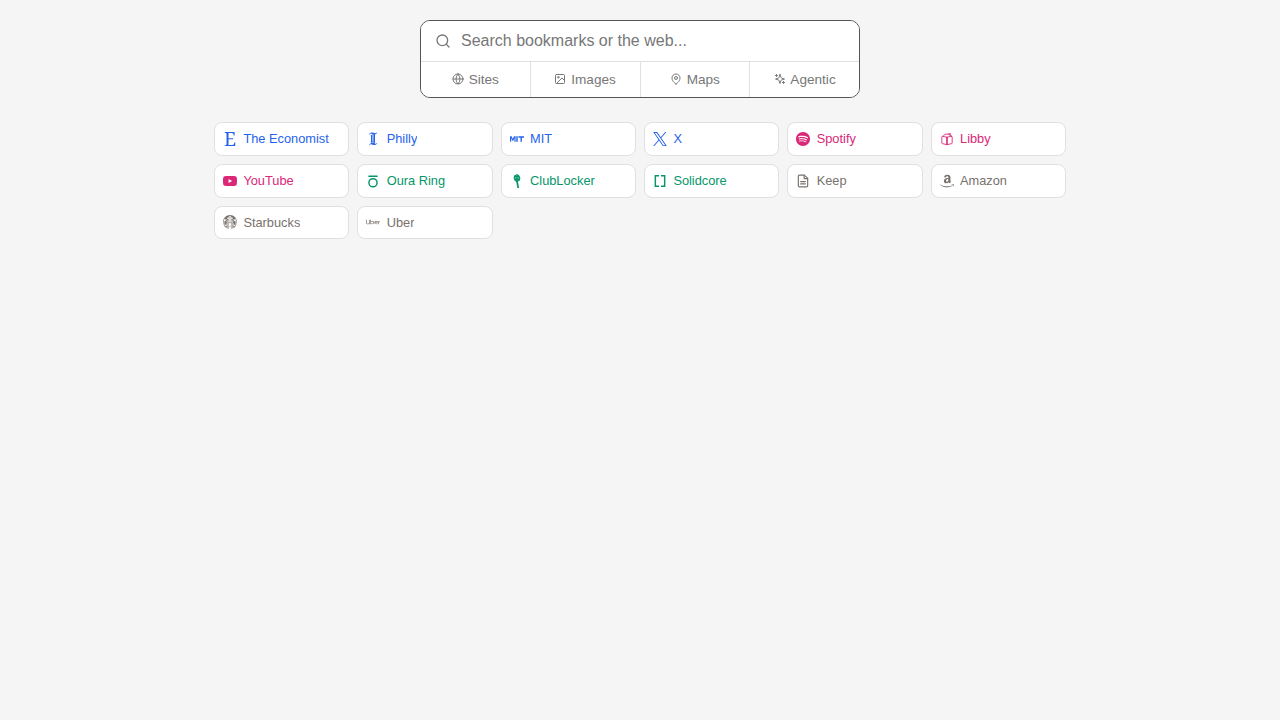
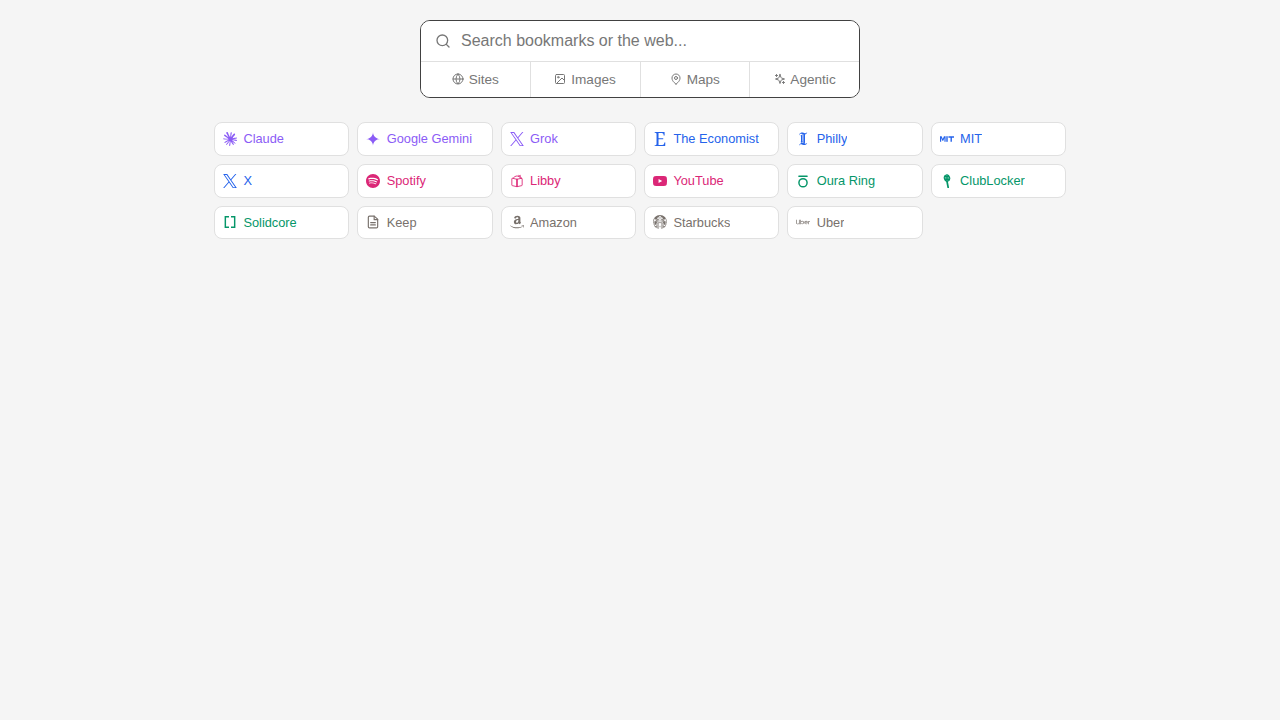
feat: Add AI category and bookmarks for Claude, Gemini, and Grok
- Added new `--cat-ai` CSS variables for styling.
- Included new `bookmark-item` elements for Claude, Google Gemini, and Grok with corresponding URLs and SVG icons (from simple-icons).
- Updated the `categoryOrder` and `customOrder` in JS to place the 'ai' category first.

diff --git a/bookmarks.html b/bookmarks.html
@@ -31,6 +31,7 @@
     --cat-health: #34d399;
     --cat-listen: #f472b6;
     --cat-shopping: #a8a29e;
+    --cat-ai: #a78bfa;
   }
 
   body {
@@ -245,6 +246,8 @@
   .bookmark-item[data-category="listen"] .ctx-icon { color: var(--cat-listen); }
   .bookmark-item[data-category="shopping"] > a.main-link { color: var(--cat-shopping); }
   .bookmark-item[data-category="shopping"] .ctx-icon { color: var(--cat-shopping); }
+  .bookmark-item[data-category="ai"] > a.main-link { color: var(--cat-ai); }
+  .bookmark-item[data-category="ai"] .ctx-icon { color: var(--cat-ai); }
 
 
 
@@ -311,6 +314,7 @@
       --cat-health: #059669;
       --cat-listen: #db2777;
       --cat-shopping: #78716c;
+      --cat-ai: #8b5cf6;
     }
   }
 </style>
@@ -344,6 +348,9 @@
 </header>
 
 <div class="grid" id="grid">
+<div class="bookmark-item" data-category="ai" data-ctx="personal"><a class="main-link" href="https://claude.ai/"><svg aria-hidden="true" class="ctx-icon" fill="currentColor" stroke="none" viewBox="0 0 24 24"><path d="m4.7144 15.9555 4.7174-2.6471.079-.2307-.079-.1275h-.2307l-.7893-.0486-2.6956-.0729-2.3375-.0971-2.2646-.1214-.5707-.1215-.5343-.7042.0546-.3522.4797-.3218.686.0608 1.5179.1032 2.2767.1578 1.6514.0972 2.4468.255h.3886l.0546-.1579-.1336-.0971-.1032-.0972L6.973 9.8356l-2.55-1.6879-1.3356-.9714-.7225-.4918-.3643-.4614-.1578-1.0078.6557-.7225.8803.0607.2246.0607.8925.686 1.9064 1.4754 2.4893 1.8336.3643.3035.1457-.1032.0182-.0728-.164-.2733-1.3539-2.4467-1.445-2.4893-.6435-1.032-.17-.6194c-.0607-.255-.1032-.4674-.1032-.7285L6.287.1335 6.6997 0l.9957.1336.419.3642.6192 1.4147 1.0018 2.2282 1.5543 3.0296.4553.8985.2429.8318.091.255h.1579v-.1457l.1275-1.706.2368-2.0947.2307-2.6957.0789-.7589.3764-.9107.7468-.4918.5828.2793.4797.686-.0668.4433-.2853 1.8517-.5586 2.9021-.3643 1.9429h.2125l.2429-.2429.9835-1.3053 1.6514-2.0643.7286-.8196.85-.9046.5464-.4311h1.0321l.759 1.1293-.34 1.1657-1.0625 1.3478-.8804 1.1414-1.2628 1.7-.7893 1.36.0729.1093.1882-.0183 2.8535-.607 1.5421-.2794 1.8396-.3157.8318.3886.091.3946-.3278.8075-1.967.4857-2.3072.4614-3.4364.8136-.0425.0304.0486.0607 1.5482.1457.6618.0364h1.621l3.0175.2247.7892.522.4736.6376-.079.4857-1.2142.6193-1.6393-.3886-3.825-.9107-1.3113-.3279h-.1822v.1093l1.0929 1.0686 2.0035 1.8092 2.5075 2.3314.1275.5768-.3218.4554-.34-.0486-2.2039-1.6575-.85-.7468-1.9246-1.621h-.1275v.17l.4432.6496 2.3436 3.5214.1214 1.0807-.17.3521-.6071.2125-.6679-.1214-1.3721-1.9246L14.38 17.959l-1.1414-1.9428-.1397.079-.674 7.2552-.3156.3703-.7286.2793-.6071-.4614-.3218-.7468.3218-1.4753.3886-1.9246.3157-1.53.2853-1.9004.17-.6314-.0121-.0425-.1397.0182-1.4328 1.9672-2.1796 2.9446-1.7243 1.8456-.4128.164-.7164-.3704.0667-.6618.4008-.5889 2.386-3.0357 1.4389-1.882.929-1.0868-.0062-.1579h-.0546l-6.3385 4.1164-1.1293.1457-.4857-.4554.0608-.7467.2307-.2429 1.9064-1.3114Z"/></svg><span class="name">Claude</span></a></div>
+<div class="bookmark-item" data-category="ai" data-ctx="personal"><a class="main-link" href="https://gemini.google.com/"><svg aria-hidden="true" class="ctx-icon" fill="currentColor" stroke="none" viewBox="0 0 24 24"><path d="M11.04 19.32Q12 21.51 12 24q0-2.49.93-4.68.96-2.19 2.58-3.81t3.81-2.55Q21.51 12 24 12q-2.49 0-4.68-.93a12.3 12.3 0 0 1-3.81-2.58 12.3 12.3 0 0 1-2.58-3.81Q12 2.49 12 0q0 2.49-.96 4.68-.93 2.19-2.55 3.81a12.3 12.3 0 0 1-3.81 2.58Q2.49 12 0 12q2.49 0 4.68.96 2.19.93 3.81 2.55t2.55 3.81"/></svg><span class="name">Google Gemini</span></a></div>
+<div class="bookmark-item" data-category="ai" data-ctx="personal"><a class="main-link" href="https://grok.com/"><svg aria-hidden="true" class="ctx-icon" fill="currentColor" stroke="none" viewBox="0 0 24 24"><path d="M14.234 10.162 22.977 0h-2.072l-7.591 8.824L7.251 0H.258l9.168 13.343L.258 24H2.33l8.016-9.318L16.749 24h6.993zm-2.837 3.299-.929-1.329L3.076 1.56h3.182l5.965 8.532.929 1.329 7.754 11.09h-3.182z"/></svg><span class="name">Grok</span></a></div>
 <div class="bookmark-item" data-category="shopping" data-ctx="personal"><a class="main-link" data-app-url="com.amazon.mobile.shopping://" href="https://www.amazon.com/"><svg aria-hidden="true" class="ctx-icon" fill="currentColor" stroke="none" viewBox="0 0 24 24"><path d="M.045 18.02c.072-.116.187-.124.348-.022 3.636 2.11 7.594 3.166 11.87 3.166 2.852 0 5.668-.533 8.447-1.595l.315-.14c.138-.06.234-.1.293-.13.226-.088.39-.046.525.13.12.174.09.336-.12.48-.256.19-.6.41-1.006.654-1.244.743-2.64 1.316-4.185 1.726a17.617 17.617 0 01-10.951-.577 17.88 17.88 0 01-5.43-3.35c-.1-.074-.151-.15-.151-.22 0-.047.021-.09.051-.13zm6.565-6.218c0-1.005.247-1.863.743-2.577.495-.71 1.17-1.25 2.04-1.615.796-.335 1.756-.575 2.912-.72.39-.046 1.033-.103 1.92-.174v-.37c0-.93-.105-1.558-.3-1.875-.302-.43-.78-.65-1.44-.65h-.182c-.48.046-.896.196-1.246.46-.35.27-.575.63-.675 1.096-.06.3-.206.465-.435.51l-2.52-.315c-.248-.06-.372-.18-.372-.39 0-.046.007-.09.022-.15.247-1.29.855-2.25 1.82-2.88.976-.616 2.1-.975 3.39-1.05h.54c1.65 0 2.957.434 3.888 1.29.135.15.27.3.405.48.12.165.224.314.283.45.075.134.15.33.195.57.06.254.105.42.135.51.03.104.062.3.076.615.01.313.02.493.02.553v5.28c0 .376.06.72.165 1.036.105.313.21.54.315.674l.51.674c.09.136.136.256.136.36 0 .12-.06.226-.18.314-1.2 1.05-1.86 1.62-1.963 1.71-.165.135-.375.15-.63.045a6.062 6.062 0 01-.526-.496l-.31-.347a9.391 9.391 0 01-.317-.42l-.3-.435c-.81.886-1.603 1.44-2.4 1.665-.494.15-1.093.227-1.83.227-1.11 0-2.04-.343-2.76-1.034-.72-.69-1.08-1.665-1.08-2.94l-.05-.076zm3.753-.438c0 .566.14 1.02.425 1.364.285.34.675.512 1.155.512.045 0 .106-.007.195-.02.09-.016.134-.023.166-.023.614-.16 1.08-.553 1.424-1.178.165-.28.285-.58.36-.91.09-.32.12-.59.135-.8.015-.195.015-.54.015-1.005v-.54c-.84 0-1.484.06-1.92.18-1.275.36-1.92 1.17-1.92 2.43l-.035-.02zm9.162 7.027c.03-.06.075-.11.132-.17.362-.243.714-.41 1.05-.5a8.094 8.094 0 011.612-.24c.14-.012.28 0 .41.03.65.06 1.05.168 1.172.33.063.09.099.228.099.39v.15c0 .51-.149 1.11-.424 1.8-.278.69-.664 1.248-1.156 1.68-.073.06-.14.09-.197.09-.03 0-.06 0-.09-.012-.09-.044-.107-.12-.064-.24.54-1.26.806-2.143.806-2.64 0-.15-.03-.27-.087-.344-.145-.166-.55-.257-1.224-.257-.243 0-.533.016-.87.046-.363.045-.7.09-1 .135-.09 0-.148-.014-.18-.044-.03-.03-.036-.047-.02-.077 0-.017.006-.03.02-.063v-.06z"></path></svg><span class="name">Amazon</span></a></div>
 <div class="bookmark-item" data-category="health" data-ctx="personal"><a class="main-link" data-app-url="clublocker://" href="https://clublocker.com/organizations/829/reservations/"><svg aria-hidden="true" class="ctx-icon" fill="none" stroke="currentColor" stroke-linecap="round" stroke-linejoin="round" stroke-width="2" viewBox="0 0 24 24"><ellipse cx="12" cy="7" rx="4.5" ry="5.5" transform="rotate(-15 12 7)"></ellipse><line stroke-width="3" x1="12" x2="14" y1="12.5" y2="23"></line><line x1="9" x2="15" y1="4.5" y2="4.5"></line><line x1="8.5" x2="15.5" y1="7" y2="7"></line><line x1="9" x2="15" y1="9.5" y2="9.5"></line><line x1="12" x2="12" y1="2" y2="12"></line></svg><span class="name">ClubLocker</span></a></div>
 <div class="bookmark-item" data-category="shopping" data-ctx="personal"><a class="main-link" data-app-url="comgooglekeep://" href="https://keep.google.com/"><svg aria-hidden="true" class="ctx-icon" fill="none" stroke="currentColor" stroke-linecap="round" stroke-linejoin="round" stroke-width="2" viewBox="0 0 24 24"><path d="M14 2H6a2 2 0 0 0-2 2v16a2 2 0 0 0 2 2h12a2 2 0 0 0 2-2V7z"></path><polyline points="14 2 14 8 20 8"></polyline><line x1="16" x2="8" y1="13" y2="13"></line><line x1="16" x2="8" y1="17" y2="17"></line></svg><span class="name">Keep</span></a></div>
@@ -469,10 +476,11 @@ function applyFilters() {
   // Sort bookmarks by category, then alphabetically within each category
   (function() {
     var categoryOrder = [
-      'news', 'listen', 'health', 'shopping'
+      'ai', 'news', 'listen', 'health', 'shopping'
     ];
 
     var customOrder = {
+      'ai': ['claude', 'google gemini', 'grok'],
       'news': ['the economist', 'philly', 'mit', 'nyt', 'x', 'polymarket'],
       'listen': ['spotify', 'libby', 'youtube'],
       'health': ['oura ring', 'clublocker', 'solidcore'],
